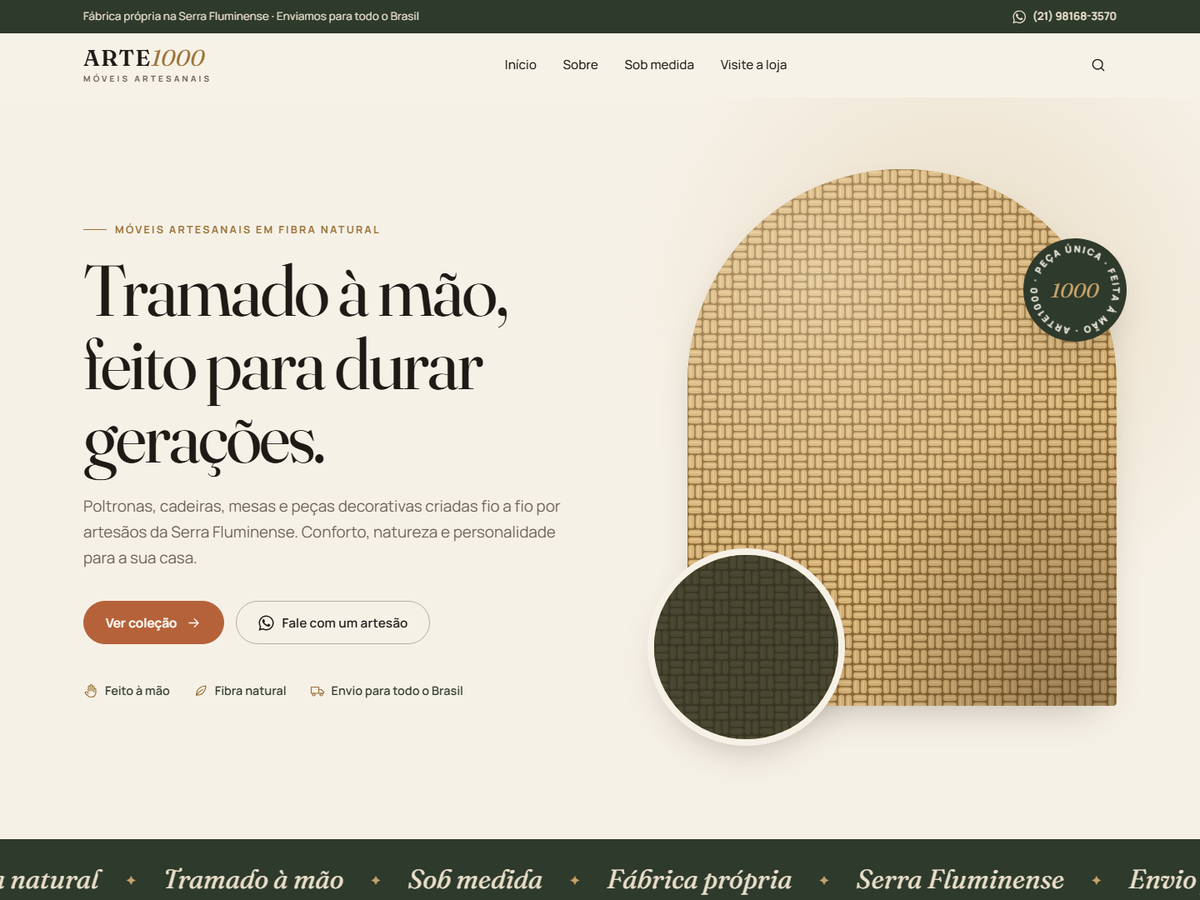
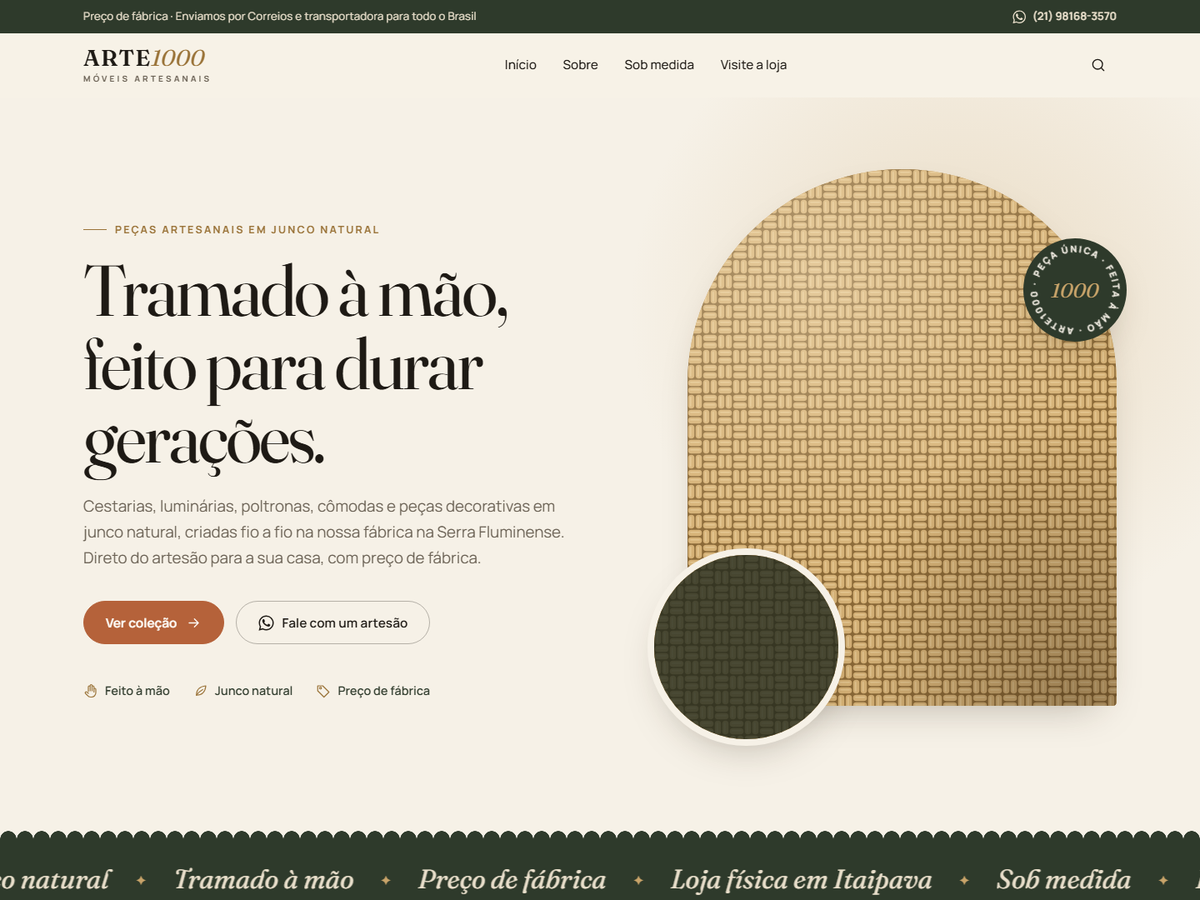
Ajusta DNA da marca: junco natural, entrega e borda ondulada
- Textos passam de "fibra natural" para junco natural, com preço de fábrica
- Categorias padrão baseadas no catálogo real (cestarias, luminárias etc.)
- Nova seção de entrega: Correios, transportadora e retirada em Itaipava
- Selos do produto com formas de entrega
- Borda ondulada entre seções, inspirada no acabamento das peças
- Assinatura "ARTE 1000" no rodapé, editável no Customizer
- README com orientação de configuração de frete

diff --git a/assets/css/main.css b/assets/css/main.css
@@ -1,6 +1,6 @@
 /* ==========================================================================
    ARTE1000 — Estilos principais
-   Identidade: fibra natural (mel), verde da Serra, terracota, linho e carvão.
+   Identidade: junco natural (mel), verde da Serra, terracota, linho e carvão.
    ========================================================================== */
 
 :root {
@@ -521,4 +521,40 @@ label { font-weight: 600; font-size: .9rem; }
 	.a1-footer__grid { grid-template-columns: 1fr; gap: 32px; }
 	.a1-footer__cta .a1-btn { width: 100%; }
 	.a1-float-wa { width: 54px; height: 54px; right: 16px; bottom: 16px; }
+}
+
+/* Borda ondulada (inspirada no acabamento das mesas e cestarias) ---------- */
+.a1-scallop-t,
+.a1-scallop-b { position: relative; }
+.a1-scallop-t::before,
+.a1-scallop-b::after {
+	content: ""; position: absolute; left: 0; right: 0; z-index: 2; height: 10px; pointer-events: none;
+	background-repeat: repeat-x; background-size: 20px 10px;
+}
+.a1-scallop-t::before { bottom: 100%; background-image: radial-gradient(circle at 10px 10px, var(--a1-sc) 9.5px, transparent 10px); }
+.a1-scallop-b::after { top: 100%; background-image: radial-gradient(circle at 10px 0, var(--a1-sc) 9.5px, transparent 10px); }
+.a1-marquee { --a1-sc: var(--a1-forest); overflow: visible; overflow-x: clip; }
+.a1-custom { --a1-sc: var(--a1-forest-deep); overflow: visible; overflow-x: clip; }
+.a1-footer { --a1-sc: var(--a1-forest-deep); }
+
+/* Entrega ------------------------------------------------------------------- */
+.a1-ship { padding-bottom: clamp(24px, 4vw, 48px); }
+.a1-ship__grid { display: grid; grid-template-columns: repeat(3, 1fr); gap: clamp(14px, 2vw, 24px); }
+.a1-ship__item {
+	padding: clamp(24px, 3vw, 36px); border-radius: var(--a1-radius);
+	background: var(--a1-white); border: 1px solid var(--a1-line);
+	transition: transform .4s var(--a1-ease), box-shadow .4s var(--a1-ease);
+}
+.a1-ship__item:hover { transform: translateY(-4px); box-shadow: var(--a1-shadow); }
+.a1-ship__icon {
+	display: grid; place-items: center; width: 56px; height: 56px; margin-bottom: 22px;
+	border-radius: 50%; background: var(--a1-linen); color: var(--a1-fiber-dark);
+}
+.a1-ship__icon .a1-icon { width: 26px; height: 26px; }
+.a1-ship__item h3 { font-size: 1.5rem; margin-bottom: 8px; }
+.a1-ship__item p { margin: 0; color: var(--a1-muted); font-size: .95rem; }
+@media (max-width: 860px) {
+	.a1-ship__grid { grid-template-columns: 1fr; }
+	.a1-ship__item { display: grid; grid-template-columns: 56px 1fr; column-gap: 18px; align-items: start; }
+	.a1-ship__icon { grid-row: span 2; margin: 0; }
 }

diff --git a/style.css b/style.css
@@ -3,7 +3,7 @@ Theme Name: ARTE1000
 Theme URI: https://github.com/jracingdev/arte1000
 Author: JRacing Dev
 Author URI: https://github.com/jracingdev
-Description: Tema moderno e comercial para a ARTE1000 — móveis artesanais em fibra natural feitos à mão na Serra Fluminense. Pronto para WooCommerce, com home de vendas, botão de WhatsApp, vitrine de categorias e personalização completa pelo Customizer.
+Description: Tema moderno e comercial para a ARTE1000 — cestarias e móveis artesanais em junco natural feitos à mão na Serra Fluminense. Pronto para WooCommerce, com home de vendas, botão de WhatsApp, vitrine de categorias e personalização completa pelo Customizer.
 Version: 1.0.0
 Requires at least: 6.0
 Tested up to: 6.6

diff --git a/front-page.php b/front-page.php
@@ -33,13 +33,13 @@ $a1_instagram = arte1000_instagram_url();
 				</div>
 				<ul class="a1-hero__points">
 					<li><?php echo arte1000_icon( 'hand' ); // phpcs:ignore WordPress.Security.EscapeOutput ?> <?php esc_html_e( 'Feito à mão', 'arte1000' ); ?></li>
-					<li><?php echo arte1000_icon( 'leaf' ); // phpcs:ignore WordPress.Security.EscapeOutput ?> <?php esc_html_e( 'Fibra natural', 'arte1000' ); ?></li>
-					<li><?php echo arte1000_icon( 'truck' ); // phpcs:ignore WordPress.Security.EscapeOutput ?> <?php esc_html_e( 'Envio para todo o Brasil', 'arte1000' ); ?></li>
+					<li><?php echo arte1000_icon( 'leaf' ); // phpcs:ignore WordPress.Security.EscapeOutput ?> <?php esc_html_e( 'Junco natural', 'arte1000' ); ?></li>
+					<li><?php echo arte1000_icon( 'tag' ); // phpcs:ignore WordPress.Security.EscapeOutput ?> <?php esc_html_e( 'Preço de fábrica', 'arte1000' ); ?></li>
 				</ul>
 			</div>
 
 			<div class="a1-hero__visual" data-a1-reveal>
-				<div class="a1-hero__main a1-media"><?php arte1000_media( 'hero_image', 'a1-weave--tall', __( 'Móvel artesanal em fibra natural', 'arte1000' ) ); ?></div>
+				<div class="a1-hero__main a1-media"><?php arte1000_media( 'hero_image', 'a1-weave--tall', __( 'Peça artesanal em junco natural', 'arte1000' ) ); ?></div>
 				<div class="a1-hero__detail a1-media"><?php arte1000_media( 'hero_image_2', 'a1-weave--dark', __( 'Detalhe da trama artesanal', 'arte1000' ) ); ?></div>
 				<div class="a1-hero__seal" aria-hidden="true">
 					<svg viewBox="0 0 120 120">
@@ -53,16 +53,16 @@ $a1_instagram = arte1000_instagram_url();
 	</section>
 
 	<!-- Faixa de valores -->
-	<div class="a1-marquee" aria-hidden="true">
+	<div class="a1-marquee a1-scallop-t a1-scallop-b" aria-hidden="true">
 		<div class="a1-marquee__track">
 			<?php
 			$a1_marquee = array(
-				__( 'Fibra natural', 'arte1000' ),
+				__( 'Junco natural', 'arte1000' ),
 				__( 'Tramado à mão', 'arte1000' ),
+				__( 'Preço de fábrica', 'arte1000' ),
+				__( 'Loja física em Itaipava', 'arte1000' ),
 				__( 'Sob medida', 'arte1000' ),
-				__( 'Fábrica própria', 'arte1000' ),
-				__( 'Serra Fluminense', 'arte1000' ),
-				__( 'Envio para todo o Brasil', 'arte1000' ),
+				__( 'Entregamos para todo o Brasil', 'arte1000' ),
 			);
 			for ( $a1_i = 0; $a1_i < 2; $a1_i++ ) {
 				foreach ( $a1_marquee as $a1_item ) {
@@ -116,12 +116,12 @@ $a1_instagram = arte1000_instagram_url();
 					endforeach;
 				else :
 					$a1_static = array(
-						__( 'Poltronas', 'arte1000' )            => __( 'Conforto tramado para a sala e a varanda', 'arte1000' ),
-						__( 'Cadeiras', 'arte1000' )             => __( 'Para a mesa de jantar e a área gourmet', 'arte1000' ),
-						__( 'Mesas', 'arte1000' )                => __( 'Centro, lateral e jantar', 'arte1000' ),
-						__( 'Luminárias', 'arte1000' )           => __( 'Luz filtrada pela trama natural', 'arte1000' ),
-						__( 'Cestos & organização', 'arte1000' ) => __( 'Beleza que também guarda', 'arte1000' ),
-						__( 'Esculturas & decor', 'arte1000' )   => __( 'Peças autorais que viram assunto', 'arte1000' ),
+						__( 'Cestarias', 'arte1000' )             => __( 'Cestos, baús e cachepôs que organizam com beleza', 'arte1000' ),
+						__( 'Luminárias & pendentes', 'arte1000' ) => __( 'Luz filtrada pela trama do junco', 'arte1000' ),
+						__( 'Poltronas & cadeiras', 'arte1000' )   => __( 'Conforto tramado para a sala e a varanda', 'arte1000' ),
+						__( 'Cômodas & cabeceiras', 'arte1000' )   => __( 'Gavetas e criados-mudos feitos à mão', 'arte1000' ),
+						__( 'Mesas & apoio', 'arte1000' )          => __( 'Laterais, carrinhos e geleiras', 'arte1000' ),
+						__( 'Esculturas & decor', 'arte1000' )     => __( 'Peças autorais que viram assunto', 'arte1000' ),
 					);
 					foreach ( $a1_static as $a1_name => $a1_desc ) :
 						?>
@@ -168,7 +168,7 @@ $a1_instagram = arte1000_instagram_url();
 	<section class="a1-section a1-about" id="essencia">
 		<div class="a1-container a1-about__grid">
 			<div class="a1-about__media a1-media" data-a1-reveal>
-				<?php arte1000_media( 'about_image', 'a1-weave--tall', __( 'Artesão tramando fibra natural', 'arte1000' ) ); ?>
+				<?php arte1000_media( 'about_image', 'a1-weave--tall', __( 'Artesão tramando junco natural', 'arte1000' ) ); ?>
 				<div class="a1-about__quote">
 					<p><?php esc_html_e( '“Mil fios, mil gestos, uma peça única.”', 'arte1000' ); ?></p>
 				</div>
@@ -182,8 +182,8 @@ $a1_instagram = arte1000_instagram_url();
 					<li>
 						<span class="a1-steps__n">01</span>
 						<div>
-							<h3><?php esc_html_e( 'Fibra selecionada', 'arte1000' ); ?></h3>
-							<p><?php esc_html_e( 'Escolhemos fibras naturais resistentes, preparadas para durar.', 'arte1000' ); ?></p>
+							<h3><?php esc_html_e( 'Junco selecionado', 'arte1000' ); ?></h3>
+							<p><?php esc_html_e( 'Trabalhamos com junco natural resistente, preparado para durar anos.', 'arte1000' ); ?></p>
 						</div>
 					</li>
 					<li>
@@ -220,7 +220,7 @@ $a1_instagram = arte1000_instagram_url();
 	</section>
 
 	<!-- Sob medida -->
-	<section class="a1-custom" id="sob-medida">
+	<section class="a1-custom a1-scallop-t" id="sob-medida">
 		<div class="a1-custom__bg a1-media"><?php arte1000_media( 'custom_image', 'a1-weave--dark', '' ); ?></div>
 		<div class="a1-container a1-custom__inner" data-a1-reveal>
 			<p class="a1-eyebrow a1-eyebrow--light"><?php esc_html_e( 'Projetos exclusivos', 'arte1000' ); ?></p>
@@ -265,6 +265,35 @@ $a1_instagram = arte1000_instagram_url();
 					endwhile;
 					wp_reset_postdata();
 					?>
+				</div>
+			</div>
+		</section>
+	<?php endif; ?>
+
+	<?php if ( arte1000_opt( 'show_shipping' ) ) : ?>
+		<!-- Entrega -->
+		<section class="a1-section a1-ship" id="entrega">
+			<div class="a1-container">
+				<header class="a1-section__head" data-a1-reveal>
+					<div>
+						<p class="a1-eyebrow"><?php echo esc_html( arte1000_opt( 'ship_eyebrow' ) ); ?></p>
+						<h2 class="a1-section__title"><?php echo esc_html( arte1000_opt( 'ship_title' ) ); ?></h2>
+					</div>
+				</header>
+				<div class="a1-ship__grid">
+					<?php
+					$a1_ship_icons = array( 1 => 'box', 2 => 'truck', 3 => 'store' );
+					foreach ( $a1_ship_icons as $a1_i => $a1_icon ) :
+						if ( ! arte1000_opt( "ship_{$a1_i}_title" ) ) {
+							continue;
+						}
+						?>
+						<div class="a1-ship__item" data-a1-reveal>
+							<span class="a1-ship__icon"><?php echo arte1000_icon( $a1_icon ); // phpcs:ignore WordPress.Security.EscapeOutput ?></span>
+							<h3><?php echo esc_html( arte1000_opt( "ship_{$a1_i}_title" ) ); ?></h3>
+							<p><?php echo esc_html( arte1000_opt( "ship_{$a1_i}_text" ) ); ?></p>
+						</div>
+					<?php endforeach; ?>
 				</div>
 			</div>
 		</section>

diff --git a/inc/customizer.php b/inc/customizer.php
@@ -23,12 +23,13 @@ function arte1000_defaults() {
 		'address'          => 'Estrada do Contorno, km 63 — Itaipava, Petrópolis/RJ',
 		'hours'            => 'Loja física aberta à visitação — consulte horários pelo WhatsApp',
 		'email'            => '',
-		'topbar_text'      => 'Fábrica própria na Serra Fluminense · Enviamos para todo o Brasil',
+		'topbar_text'      => 'Preço de fábrica · Enviamos por Correios e transportadora para todo o Brasil',
+		'signature'        => 'ARTE 1000',
 
 		// Hero.
-		'hero_eyebrow'     => 'Móveis artesanais em fibra natural',
+		'hero_eyebrow'     => 'Peças artesanais em junco natural',
 		'hero_title'       => 'Tramado à mão, feito para durar gerações.',
-		'hero_text'        => 'Poltronas, cadeiras, mesas e peças decorativas criadas fio a fio por artesãos da Serra Fluminense. Conforto, natureza e personalidade para a sua casa.',
+		'hero_text'        => 'Cestarias, luminárias, poltronas, cômodas e peças decorativas em junco natural, criadas fio a fio na nossa fábrica na Serra Fluminense. Direto do artesão para a sua casa, com preço de fábrica.',
 		'hero_btn1_label'  => 'Ver coleção',
 		'hero_btn1_url'    => '',
 		'hero_btn2_label'  => 'Fale com um artesão',
@@ -38,7 +39,7 @@ function arte1000_defaults() {
 		// Sobre / manifesto.
 		'about_eyebrow'    => 'Nossa essência',
 		'about_title'      => 'Cada peça carrega o tempo, as mãos e a história de quem a criou.',
-		'about_text'       => "A ARTE1000 nasceu do encontro entre a tradição artesanal e o olhar contemporâneo. Em nossa fábrica, na Serra Fluminense, transformamos fibras naturais em móveis e esculturas que unem resistência, conforto e beleza.\n\nNada é feito em série: cada trama é conduzida à mão, com paciência e cuidado, para que a sua peça seja única.",
+		'about_text'       => "A ARTE1000 nasceu do encontro entre a tradição artesanal e o olhar contemporâneo. Em nossa fábrica, na Serra Fluminense, transformamos o junco natural em cestarias, móveis, luminárias e esculturas que unem resistência, conforto e beleza.\n\nNada é feito em série: cada trama é conduzida à mão, com paciência e cuidado, para que a sua peça seja única.",
 		'about_image'      => '',
 
 		// Sob medida.
@@ -47,17 +48,28 @@ function arte1000_defaults() {
 		'custom_image'     => '',
 
 		// Números.
-		'stat_1_number'    => '+20 mil',
-		'stat_1_label'     => 'seguidores acompanhando nosso trabalho',
+		'stat_1_number'    => '+19 mil',
+		'stat_1_label'     => 'seguidores acompanhando nossa produção',
 		'stat_2_number'    => '100%',
-		'stat_2_label'     => 'feito à mão, peça por peça',
-		'stat_3_number'    => 'Sob medida',
-		'stat_3_label'     => 'projetos para casas, pousadas e restaurantes',
+		'stat_2_label'     => 'feito à mão em junco natural',
+		'stat_3_number'    => 'Preço de fábrica',
+		'stat_3_label'     => 'direto de quem produz, sem intermediários',
 		'stat_4_number'    => 'Brasil',
 		'stat_4_label'     => 'entregamos em todo o território nacional',
 
+		// Entrega.
+		'ship_eyebrow'     => 'Entrega',
+		'ship_title'       => 'Do nosso ateliê até a sua porta.',
+		'ship_1_title'     => 'Correios',
+		'ship_1_text'      => 'Ideal para cestarias e peças menores, com código de rastreio para acompanhar a entrega.',
+		'ship_2_title'     => 'Transportadora',
+		'ship_2_text'      => 'Para móveis e volumes maiores, embalados com cuidado e enviados para todo o Brasil.',
+		'ship_3_title'     => 'Retirada na loja',
+		'ship_3_text'      => 'Compre online e retire sem custo de frete na nossa loja física em Itaipava.',
+		'show_shipping'    => true,
+
 		// Rodapé.
-		'footer_about'     => 'Móveis e objetos artesanais em fibra natural, criados à mão na Serra Fluminense para casas cheias de vida.',
+		'footer_about'     => 'Cestarias, móveis e objetos artesanais em junco natural, criados à mão na Serra Fluminense para casas cheias de vida.',
 		'show_map'         => true,
 		'show_float_wa'    => true,
 	);
@@ -117,6 +129,7 @@ function arte1000_customize_register( $wp_customize ) {
 		'arte1000_about'   => __( 'Home — Nossa essência', 'arte1000' ),
 		'arte1000_custom'  => __( 'Home — Sob medida', 'arte1000' ),
 		'arte1000_stats'   => __( 'Home — Números', 'arte1000' ),
+		'arte1000_ship'    => __( 'Home — Entrega', 'arte1000' ),
 		'arte1000_footer'  => __( 'Rodapé', 'arte1000' ),
 	);
 	foreach ( $sections as $id => $title ) {
@@ -135,6 +148,17 @@ function arte1000_customize_register( $wp_customize ) {
 		'hours'            => array( 'arte1000_contact', 'text', __( 'Horário de atendimento', 'arte1000' ) ),
 		'email'            => array( 'arte1000_contact', 'text', __( 'E-mail', 'arte1000' ) ),
 		'topbar_text'      => array( 'arte1000_contact', 'text', __( 'Texto da barra superior', 'arte1000' ) ),
+		'signature'        => array( 'arte1000_contact', 'text', __( 'Assinatura de produção (rodapé)', 'arte1000' ) ),
+
+		'ship_eyebrow'     => array( 'arte1000_ship', 'text', __( 'Chamada pequena', 'arte1000' ) ),
+		'ship_title'       => array( 'arte1000_ship', 'text', __( 'Título', 'arte1000' ) ),
+		'ship_1_title'     => array( 'arte1000_ship', 'text', __( 'Opção 1 — título', 'arte1000' ) ),
+		'ship_1_text'      => array( 'arte1000_ship', 'textarea', __( 'Opção 1 — texto', 'arte1000' ) ),
+		'ship_2_title'     => array( 'arte1000_ship', 'text', __( 'Opção 2 — título', 'arte1000' ) ),
+		'ship_2_text'      => array( 'arte1000_ship', 'textarea', __( 'Opção 2 — texto', 'arte1000' ) ),
+		'ship_3_title'     => array( 'arte1000_ship', 'text', __( 'Opção 3 — título', 'arte1000' ) ),
+		'ship_3_text'      => array( 'arte1000_ship', 'textarea', __( 'Opção 3 — texto', 'arte1000' ) ),
+		'show_shipping'    => array( 'arte1000_ship', 'checkbox', __( 'Exibir seção de entrega na home', 'arte1000' ) ),
 
 		'hero_eyebrow'     => array( 'arte1000_hero', 'text', __( 'Chamada pequena', 'arte1000' ) ),
 		'hero_title'       => array( 'arte1000_hero', 'textarea', __( 'Título', 'arte1000' ) ),

diff --git a/footer.php b/footer.php
@@ -9,7 +9,7 @@ $a1_instagram = arte1000_instagram_url();
 $a1_email     = arte1000_opt( 'email' );
 ?>
 
-<footer class="a1-footer">
+<footer class="a1-footer a1-scallop-t">
 	<div class="a1-container">
 		<div class="a1-footer__cta">
 			<h2 class="a1-footer__headline"><?php esc_html_e( 'Traga a natureza para dentro de casa.', 'arte1000' ); ?></h2>
@@ -79,7 +79,12 @@ $a1_email     = arte1000_opt( 'email' );
 
 		<div class="a1-footer__bottom">
 			<p>&copy; <?php echo esc_html( wp_date( 'Y' ) ); ?> <?php bloginfo( 'name' ); ?>. <?php esc_html_e( 'Todos os direitos reservados.', 'arte1000' ); ?></p>
-			<p><?php esc_html_e( 'Feito à mão na Serra Fluminense.', 'arte1000' ); ?></p>
+			<p>
+				<?php esc_html_e( 'Feito à mão na Serra Fluminense', 'arte1000' ); ?>
+				<?php if ( arte1000_opt( 'signature' ) ) : ?>
+					· <?php echo esc_html( arte1000_opt( 'signature' ) ); ?>
+				<?php endif; ?>
+			</p>
 		</div>
 	</div>
 </footer>

diff --git a/inc/template-tags.php b/inc/template-tags.php
@@ -86,6 +86,9 @@ function arte1000_icon( $name ) {
 		'ruler'     => '<rect x="2" y="8" width="20" height="8" rx="1.5"/><path d="M6 8v3M10 8v4M14 8v3M18 8v4"/>',
 		'truck'     => '<path d="M2 6h12v10H2zM14 10h4l4 4v2h-8z"/><circle cx="6" cy="18" r="2"/><circle cx="18" cy="18" r="2"/>',
 		'shield'    => '<path d="M12 3 4 6v6c0 5 3.5 8 8 9 4.5-1 8-4 8-9V6l-8-3z"/><path d="m9 12 2 2 4-4"/>',
+		'box'       => '<path d="M3 7.5 12 3l9 4.5v9L12 21l-9-4.5v-9z"/><path d="m3 7.5 9 4.5 9-4.5M12 12v9M7.5 5.2l9 4.6"/>',
+		'store'     => '<path d="M4 10v10h16V10"/><path d="M3 10 5 4h14l2 6c0 1.4-1.1 2.5-2.5 2.5S16 11.4 16 10c0 1.4-1.1 2.5-2.5 2.5h-3C9.1 12.5 8 11.4 8 10c0 1.4-1.1 2.5-2.5 2.5S3 11.4 3 10z"/><path d="M10 20v-5h4v5"/>',
+		'tag'       => '<path d="M3 12V4h8l10 10-8 8L3 12z"/><circle cx="7.5" cy="7.5" r="1.5"/>',
 	);
 
 	if ( ! isset( $icons[ $name ] ) ) {

diff --git a/inc/woocommerce.php b/inc/woocommerce.php
@@ -103,10 +103,10 @@ add_action( 'woocommerce_single_product_summary', 'arte1000_product_whatsapp_but
  */
 function arte1000_product_trust() {
 	$items = array(
-		'hand'   => __( 'Feito à mão, peça única', 'arte1000' ),
-		'ruler'  => __( 'Medidas sob encomenda', 'arte1000' ),
-		'truck'  => __( 'Envio para todo o Brasil', 'arte1000' ),
-		'shield' => __( 'Compra segura', 'arte1000' ),
+		'hand'  => __( 'Feito à mão em junco natural', 'arte1000' ),
+		'tag'   => __( 'Preço de fábrica', 'arte1000' ),
+		'box'   => __( 'Envio por Correios ou transportadora', 'arte1000' ),
+		'store' => __( 'Retirada na loja em Itaipava', 'arte1000' ),
 	);
 	echo '<ul class="a1-trust">';
 	foreach ( $items as $icon => $label ) {

diff --git a/README.md b/README.md
@@ -1,6 +1,6 @@
 # ARTE1000 — Tema WordPress
 
-Tema comercial para a **ARTE1000 Móveis Artesanais**: móveis e objetos em fibra natural feitos à mão na Serra Fluminense (loja em Itaipava, Petrópolis/RJ).
+Tema comercial para a **ARTE1000 Móveis Artesanais**: cestarias, móveis, luminárias e objetos em **junco natural** feitos à mão na Serra Fluminense, com preço de fábrica e loja física em Itaipava, Petrópolis/RJ. Assinatura da marca: **ARTE 1000**.
 
 ## Identidade visual
 
@@ -8,14 +8,14 @@ Tema comercial para a **ARTE1000 Móveis Artesanais**: móveis e objetos em fibr
 |---|---|---|
 | Creme | `#F6F1E7` | Fundo principal |
 | Linho | `#EAE0CC` | Seções alternadas |
-| Fibra | `#C9A46A` / `#9A7338` | Destaques, textura de trama |
+| Junco | `#C9A46A` / `#9A7338` | Destaques, textura de trama |
 | Serra | `#2E3A2B` / `#1F281D` | Faixas, rodapé, botões secundários |
 | Terracota | `#B5623A` | Chamadas para ação (comprar, orçamento) |
 | Carvão | `#1E1A15` | Texto |
 
 Tipografia: **Fraunces** (títulos, serifada com personalidade artesanal) + **Manrope** (textos e interface).
 
-Assinaturas visuais: imagens em formato de **arco** (remetendo ao encosto de uma poltrona de vime), textura de **trama** em SVG usada enquanto não há fotos, selo giratório "peça única · feita à mão" e faixa rolante com os valores da marca.
+Assinaturas visuais: imagens em formato de **arco** (remetendo ao encosto de uma poltrona de junco), **borda ondulada** entre seções (inspirada no acabamento recortado das mesas e cestarias), textura de **trama** em SVG usada enquanto não há fotos, selo giratório "peça única · feita à mão" e faixa rolante com os valores da marca.
 
 ## Instalação
 
@@ -30,7 +30,8 @@ Assinaturas visuais: imagens em formato de **arco** (remetendo ao encosto de uma
 - **Home — Destaque principal**: textos, botões e duas imagens (vertical + detalhe circular).
 - **Home — Nossa essência**: texto institucional e imagem.
 - **Home — Sob medida**: chamada para orçamento personalizado.
-- **Home — Números**: 4 destaques (ex.: +20 mil seguidores).
+- **Home — Números**: 4 destaques (ex.: +19 mil seguidores, preço de fábrica).
+- **Home — Entrega**: Correios, transportadora e retirada na loja (textos editáveis).
 - **Rodapé**: texto da marca, mapa e botão flutuante de WhatsApp.
 
 Logo: **Personalizar → Identidade do site → Logo**. Sem logo, o tema exibe a marca tipográfica **ARTE*1000***.
@@ -43,6 +44,15 @@ Menus: **Aparência → Menus** — locais "Menu principal" e "Menu do rodapé".
 - Produtos marcados como **destaque** (estrela) aparecem na vitrine da home; sem destaques, entram os mais recentes.
 - Página do produto com botão **"Comprar ou personalizar pelo WhatsApp"** (mensagem já inclui nome e link do produto) e selos de confiança.
 - Selo "Feito à mão" nas miniaturas, contador do carrinho com atualização via AJAX.
+
+## Frete (configurar no WooCommerce)
+
+O tema exibe as formas de entrega; o cálculo do frete é feito pelo WooCommerce:
+
+1. **WooCommerce → Configurações → Entrega**: crie a zona "Brasil".
+2. **Retirada na loja**: adicione o método nativo *Retirada no local* (custo zero), com o endereço de Itaipava.
+3. **Correios + transportadoras**: instale o plugin **Melhor Envio** (Correios, Jadlog, Loggi etc.) ou o **Correios para WooCommerce**. Cadastre peso e dimensões em todos os produtos — cestarias volumosas pesam pouco mas ocupam muito espaço, então as dimensões são essenciais para a cotação.
+4. Para móveis grandes, uma alternativa é a classe de entrega "Sob consulta", direcionando o cliente ao botão de WhatsApp.
 
 ## Fotos recomendadas
 
